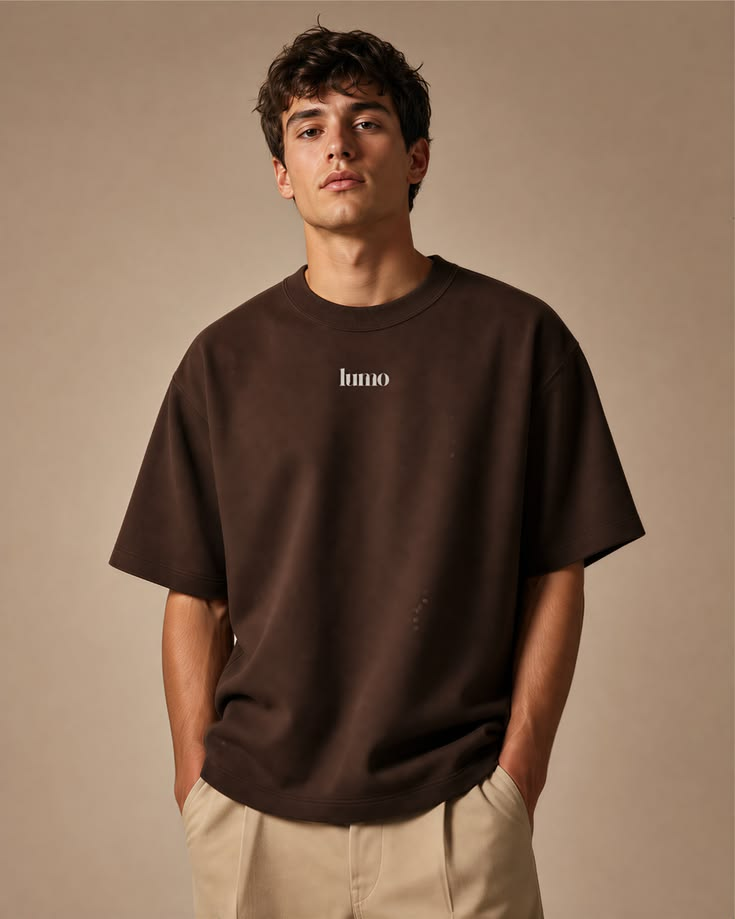
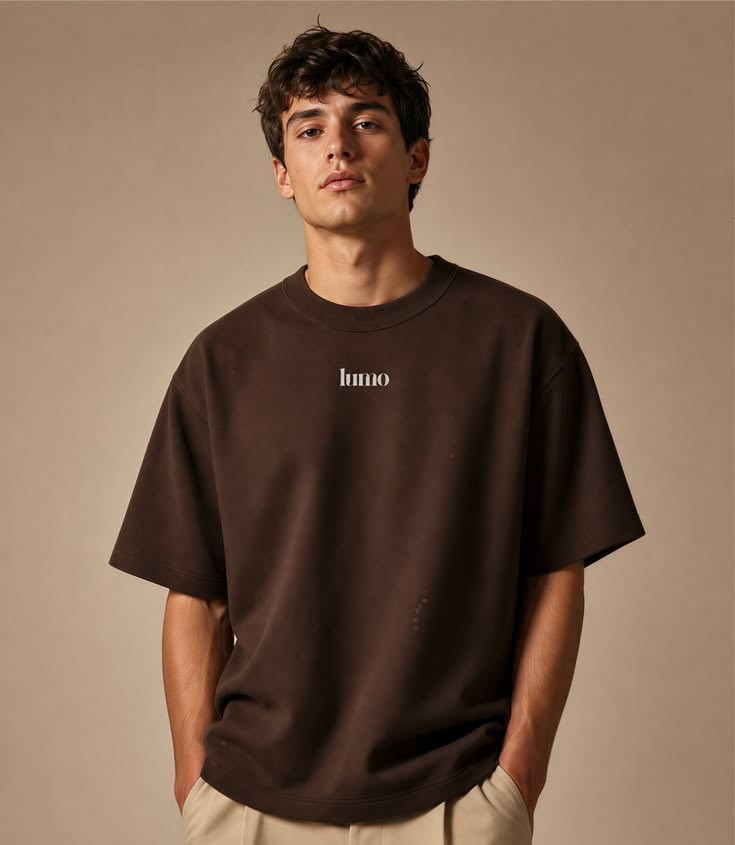
fix: Altera tamanho dos inputs e posição do inscreva-se

Changed region(s): [[0.1497, 0.0308, 0.898, 1.0], [0.449, 0.4, 0.5388, 0.4615], [0.3891, 0.7692, 0.419, 0.8]]

diff --git a/resources/css/app.css b/resources/css/app.css
@@ -185,14 +185,19 @@
     justify-content: center;
 }
 .colecoes-destaque img{
-    width: 40%;
-    height: 550px;
+    width: 45%;
+    height: 600px;
     object-fit: cover;
 }
 .inscreva-se{
+    width: 100%;
     display: flex;
+    flex-direction: row;
+    align-items: flex-start;
+    justify-content: space-between;
     font-family: 'Roboto Regular';
-    gap: 10px;
+    margin-top: 4rem;
+    padding: 0 3.75rem;
 }
 .inputs-i{
     display: flex;
@@ -203,14 +208,16 @@
 .inputs-i input{
     border: 1px solid black;
     font-size: 10px;
+    width: 300px;
 }
 .inputs-i input::placeholder{
     color: black;
 }
 .inputs-i button{
     background-color: #121212;
-    width: 40%;
+    width: 100%;
     color: white;
-    font-size: 10px;
-    padding: 0 10px;
+    font-size: 13px;
+    padding: 10px;
+    white-space: nowrap;
 }
